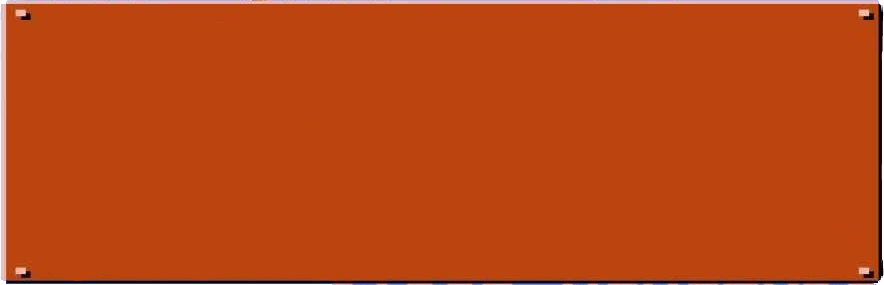
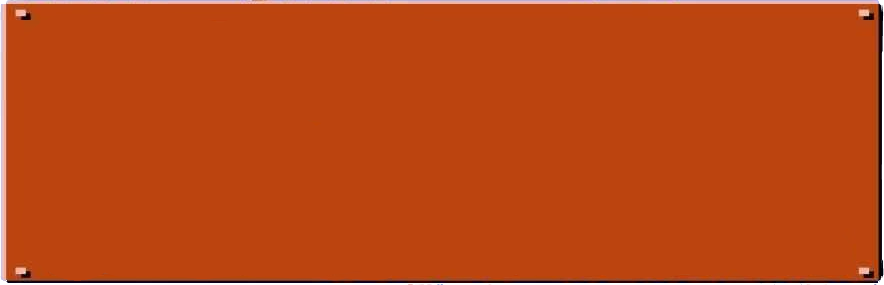
fixed positioning issue occuring on FF and ME

Changed region(s): [[0.0, 0.9825, 1.0, 1.0]]

diff --git a/assets/css/style.css b/assets/css/style.css
@@ -15,6 +15,15 @@
 
 }
 
+@keyframes starmario-flicker {
+  16.6% {background-image: url('../images/starmario1.png')}
+  33.3% {background-image: url('../images/starmario2.png')}
+  50% {background-image: url('../images/starmario3.png')}
+  66.6% {background-image: url('../images/starmario4.png')}
+  83.3% {background-image: url('../images/starmario5.png')}
+  100% {background-image: url('../images/starmario6.png')}
+}
+
 @keyframes fire-to-super-flicker {
   0% {background-image: url("../images/firemario.png")}
   20% {background-image: url("../images/mario.png")}
@@ -61,17 +70,17 @@
 }
 
 @keyframes open-header {
-  0% {position: absolute; top: 26%;}
-  10% {position: absolute; top: 23.4%;}
-  20% {position: absolute; top: 20.8%;}
-  30% {position: absolute; top: 18.2%;}
-  40% {position: absolute; top: 15.6%;}
-  50% {position: absolute; top: 13%;}
-  60% {position: absolute; top: 10.4%;}
-  70% {position: absolute; top: 7.8%;}
-  80% {position: absolute; top: 5.2%;}
-  90% {position: absolute; top: 2.6%;}
-  100% {position: absolute; top: 0%;}
+  0% {position: absolute; top: 20vw;}
+  10% {position: absolute; top: 18.5vw;}
+  20% {position: absolute; top: 17vw;}
+  30% {position: absolute; top: 15.5vw;}
+  40% {position: absolute; top: 14vw;}
+  50% {position: absolute; top: 12.5vw;}
+  60% {position: absolute; top: 11vw;}
+  70% {position: absolute; top: 9.5vw;}
+  80% {position: absolute; top: 8vw;}
+  90% {position: absolute; top: 6.5vw;}
+  100% {position: absolute; top: 5vw;}
 }
 
 @keyframes open-footer {
@@ -95,36 +104,49 @@
 body {
   height: 100vh;
   background-image: url("../images/background.png");
-  background-position-y: 100%;
   background-size: cover;
   overflow: hidden;
 }
 
 
 main {
-  height: 81%;
-  width:100%;
+  height: 71%;
+  width: 100%;
   position: absolute;
   top: 10vw;
 }
 
 header.game {
-  height: 10vw;
-  z-index: 10;
+  position: absolute;
+  height: 10vh;
+  width: 100%;
+  top: 5vw;
   animation-name: open-header;
   animation-duration: .65s;
-  animation-timing-function: ease-in-out;
+  animation-timing-function: ease-out;
 }
 
 header.home {
   position: absolute;
-  z-index: 1;
-  top: 26%;
+  height: 50vh;
+  width: 100%;
+  top: 0;
 }
+
+header.home > div {
+  position: absolute;
+  bottom: 0;
+}
+
+header.game > div {
+  position: absolute;
+  bottom: 0;
+}
+
 
 header div.block:before {
   content: '';
-  position: relative;
+  position: absolute;
   display: inline-block;
   background-image: url('../images/brick.png');
   background-size: contain;
@@ -136,19 +158,20 @@ header div.block:before {
 
 header div.block:after {
   content: '';
-  position: relative;
+  position: absolute;
   display: inline-block;
   background-image: url('../images/brick.png');
   background-size: contain;
   background-repeat: no-repeat;
   height: 10vw;
   width: 10vw;
-  bottom: 30.4vw;
+  bottom: 20vw;
 }
 
 footer.home {
   position: absolute;
-  bottom: 6%;
+  bottom: 0;
+  height: 50vh;
 }
 
 footer.game {
@@ -159,7 +182,7 @@ footer.game {
   width: 100%;
   animation-name: open-footer;
   animation-duration: .65s;
-  animation-timing-function: ease-in-out;
+  animation-timing-function: ease-out;
 }
 
 footer div.block:after {
@@ -218,9 +241,10 @@ footer div.block:before {
 }
 
 .title {
+  position: absolute;
   height: 10vw;
-  width: 100%;
-  top: 0vw;
+  width: 46%;
+  bottom: 0;
   left: 27vw;
   position: absolute;
   background-image: url("../images/supermario.png");
@@ -255,6 +279,25 @@ footer div.block:before {
   background-repeat: no-repeat;
   height: 10vw;
   width: 10vw;
+}
+
+.win {
+  background-image: url('../images/winmodal.png');
+
+}
+
+.lose {
+  background-image: url('../images/losemodal.png');
+}
+
+.modal {
+  position: absolute;
+  display: inline-block;
+  background-size: contain;
+  background-repeat: no-repeat;
+  margin: 10vw 10vw 10vw 10vw;
+  height: 80vw;
+  width: 80vw;
 }
 
 .play {
@@ -319,6 +362,12 @@ footer div.block:before {
   position: fixed;
   bottom: 5vw;
   left: 5vw;
+}
+
+.starmario {
+  animation-name: starmario-flicker;
+  animation-duration: 1s;
+  animation-iteration-count: 5;
 }
 
 

diff --git a/assets/js/main.js b/assets/js/main.js
@@ -84,21 +84,19 @@ class Card {
           case 'fire': grow('fire');
             break;
 
-          case 'goomba': shrink(1);
+          case 'goomba': shrink();
             break;
 
-          case 'koopa': shrink(1);
+          case 'koopa': shrink();
             break;
 
           case 'life': sound('oneup');
             break;
 
-          case 'bones': shrink(1);
+          case 'bones': shrink();
             break;
 
-          case 'bowser':
-            victory = true;
-            shrink(3);
+          case 'bowser': endgame();
             break;
 
           case 'coin': sound('score');
@@ -142,6 +140,7 @@ function sound(type) {
 
   if (type === 'invincible') {
     $('#theme')[0].pause();
+    $('#player')[0].className = 'mario starmario';
     powerups.push('invincible');
     setTimeout(() => {
       powerups.pop();
@@ -154,43 +153,62 @@ function sound(type) {
   }
 }
 
-
-function shrink(damage) {
-
-  if (victory === true && (lives === 2 || powerups.length > 0)) {
-    alert('You win!');
+function endgame() {
+  if (lives === 2 || powerups.length > 0) {
+    $('body').append($('<div>', { class: 'win modal' }))
     $('#theme')[0].pause();
     $('#invincible')[0].pause();
     $('#victory')[0].play()
       .catch((error) => console.log(error.message));
   }
+}
+
+
+function shrink() {
 
   if (powerups.length === 0){
-    health -= damage;
-    if (health <= 0) {
-      --lives;
-      if (lives === 0) {
-        $('#theme')[0].pause();
-        $('#death')[0].play()
-          .catch((error) => console.log(error.message));
-        alert('Game over!');
-      } else {
-        $('#theme')[0].pause();
-        $('#death')[0].play()
-          .catch((error) => console.log(error.message));
-        $('#theme')[0].play()
-          .catch((error) => console.log(error.message));
-        health = 2;
-        $('#player')[0].className = 'mario-to-super mario';
+    --health;
+
+    switch(health) {
+      case 0: {
+        --lives;
+        if (lives === 1) {
+          health = 2;
+          $('#player')[0].className = 'mario';
+
+          $('#theme')[0].pause();
+
+          $('#death')[0].play()
+            .catch((error) => console.log(error.message));
+
+          $('#theme')[0].play()
+            .catch((error) => console.log(error.message));
+
+        } else if (lives === 0) {
+
+          $('#theme')[0].pause();
+
+          $('#death')[0].play()
+            .catch((error) => console.log(error.message));
+
+          $('body').append($('<div>', { class: 'lose modal' }))
+        }
       }
-    } else if (health === 1) {
-      $('#player')[0].className = 'super-to-mario minimario';
-      $('#shrink')[0].play()
-        .catch((error) => console.log(error.message));
-    } else if (health === 2) {
-      $('#player')[0].className = 'fire-to-super mario';
-      $('#shrink')[0].play()
-        .catch((error) => console.log(error.message));
+      break;
+      case 1: {
+        $('#player')[0].className = 'super-to-mario minimario';
+
+        $('#shrink')[0].play()
+          .catch((error) => console.log(error.message));
+      }
+      break;
+      case 2: {
+        $('#player')[0].className = 'fire-to-super mario';
+
+        $('#shrink')[0].play()
+          .catch((error) => console.log(error.message));
+      }
+      break;
     }
   }
 

diff --git a/assets/js/loadBlocks.js b/assets/js/loadBlocks.js
@@ -1,6 +1,8 @@
 for (let blockIndex = 0; blockIndex < 10; blockIndex++){
-  $('header').prepend($('<div>', { class: 'block'}));
   $('footer').append($('<div>', { class: 'block' }));
+}
+for (let blockIndex = 0; blockIndex < 10; blockIndex++) {
+  $('header').prepend($('<div>').addClass('block').css('left', (blockIndex * 10) + 'vw'));
 }
 
 $('footer').prepend($('<button>', { id: 'play', class: 'play', text: 'PLAY'}));
